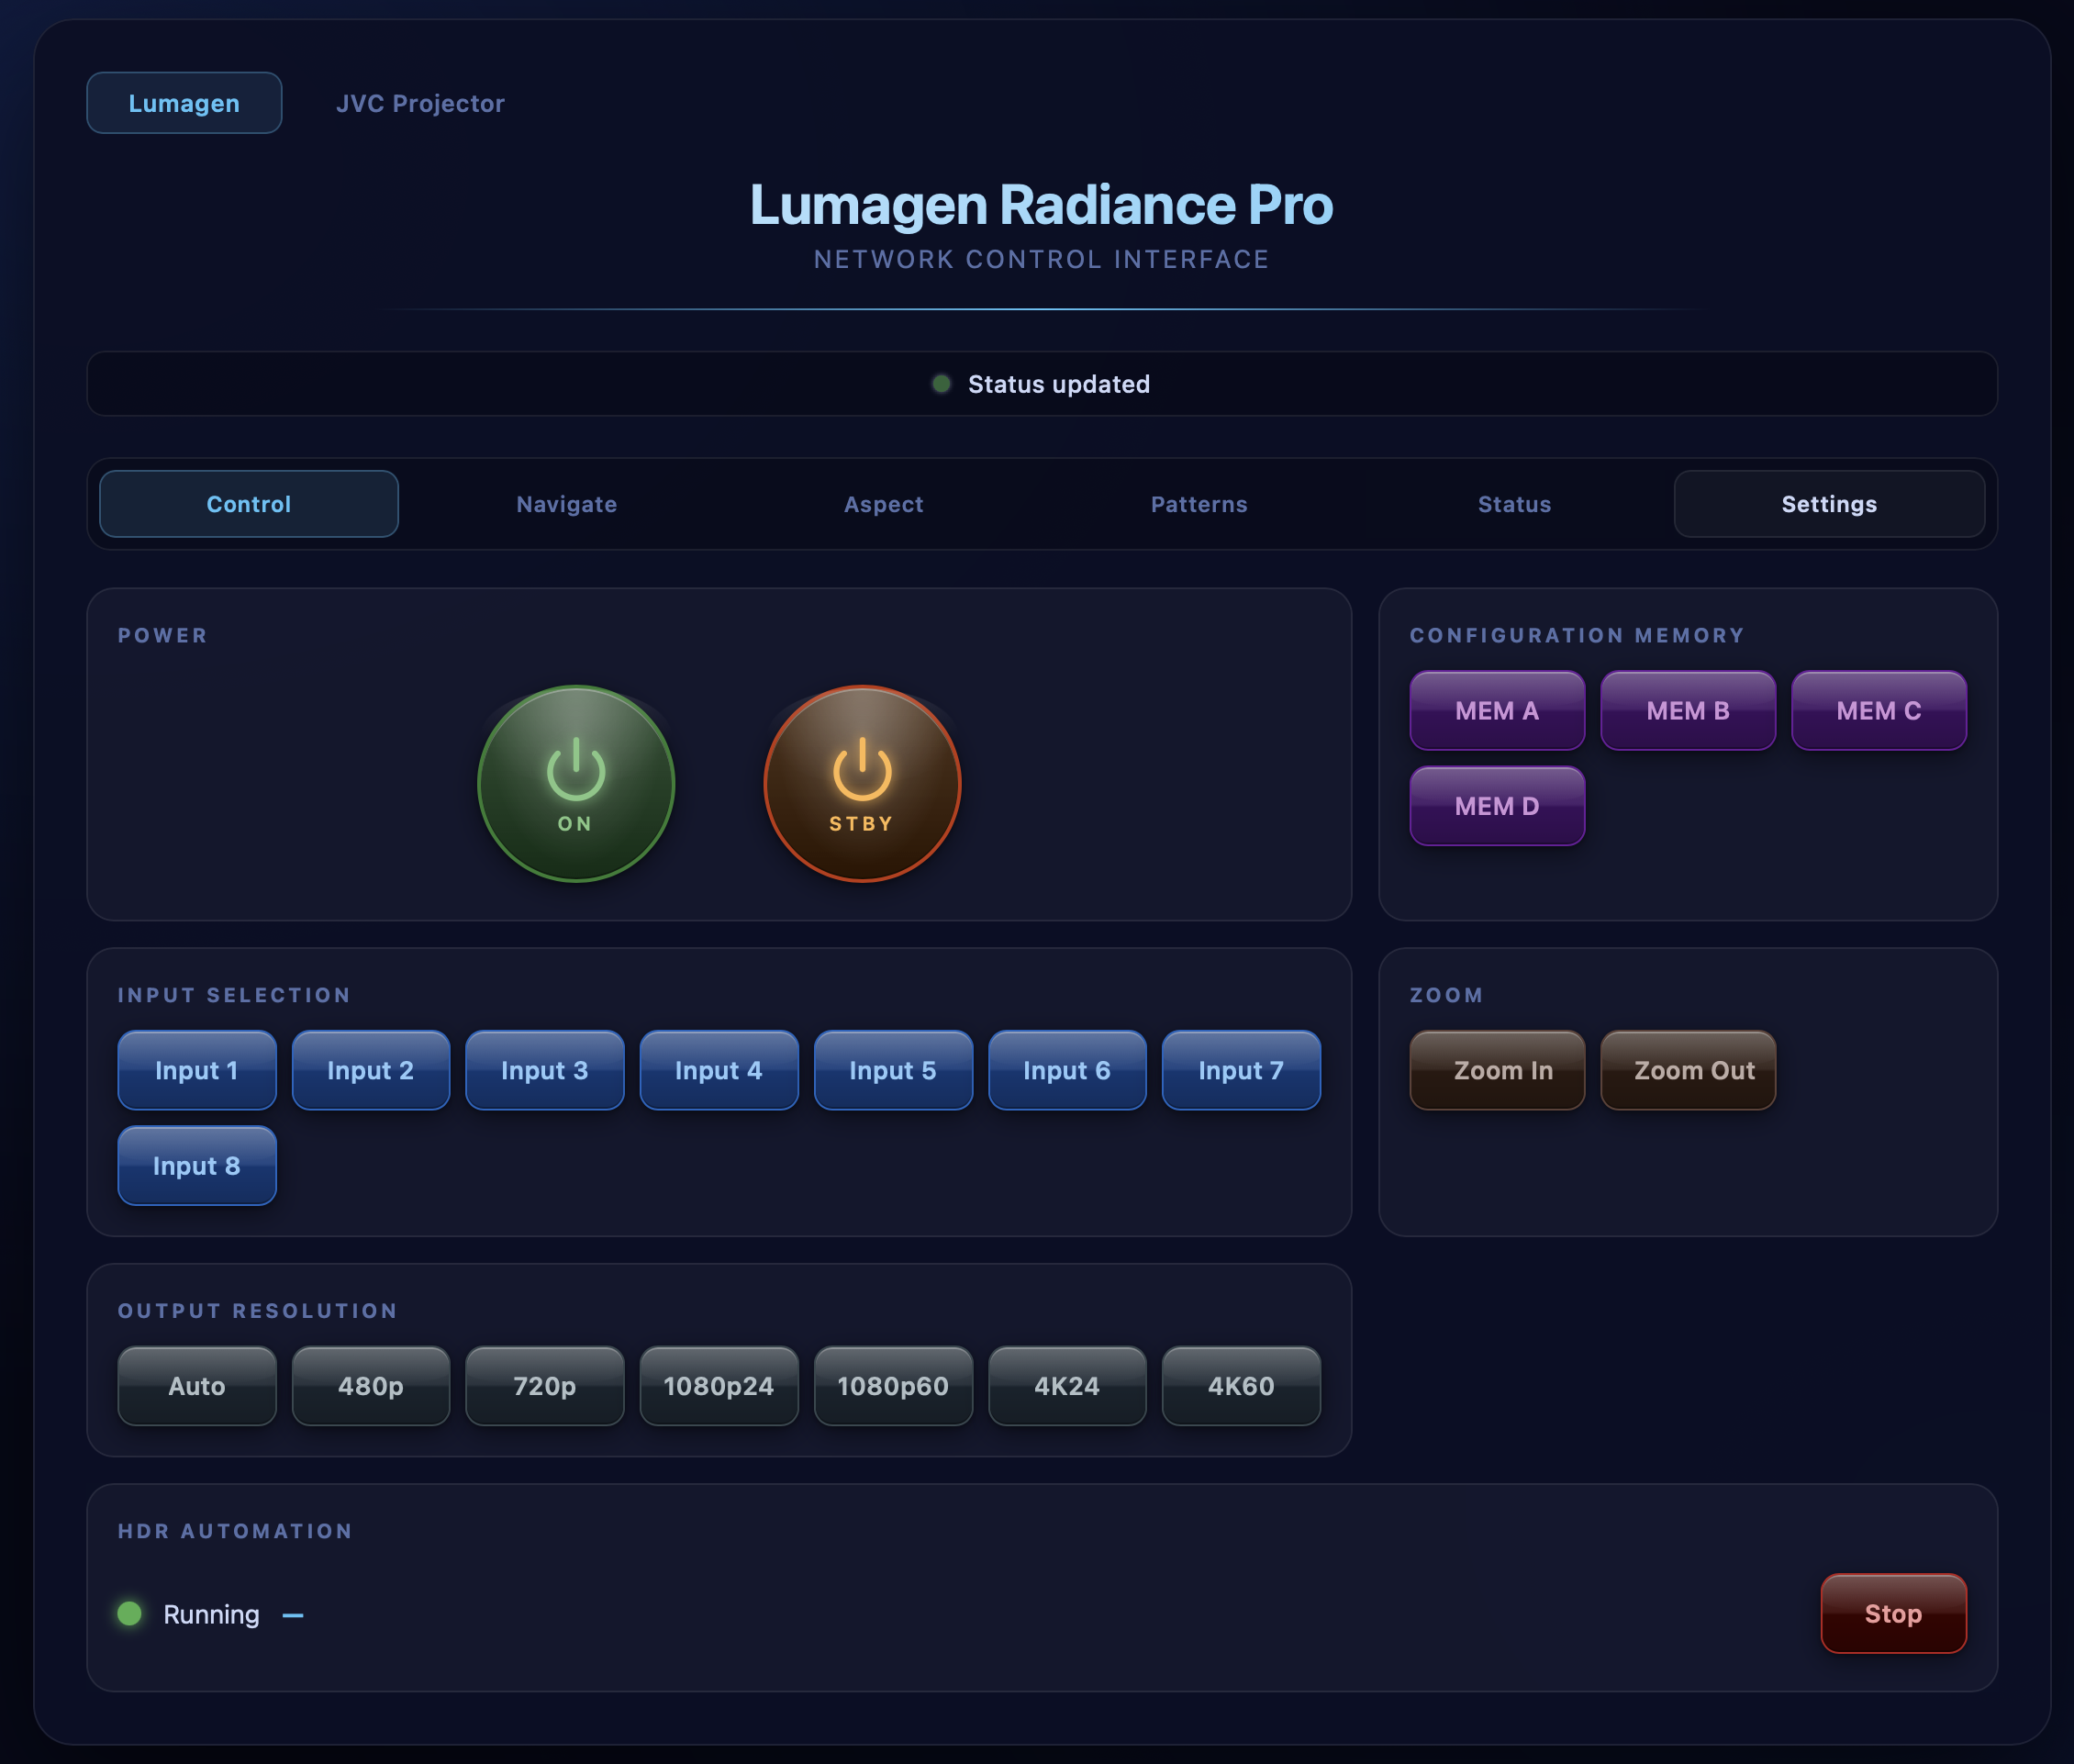
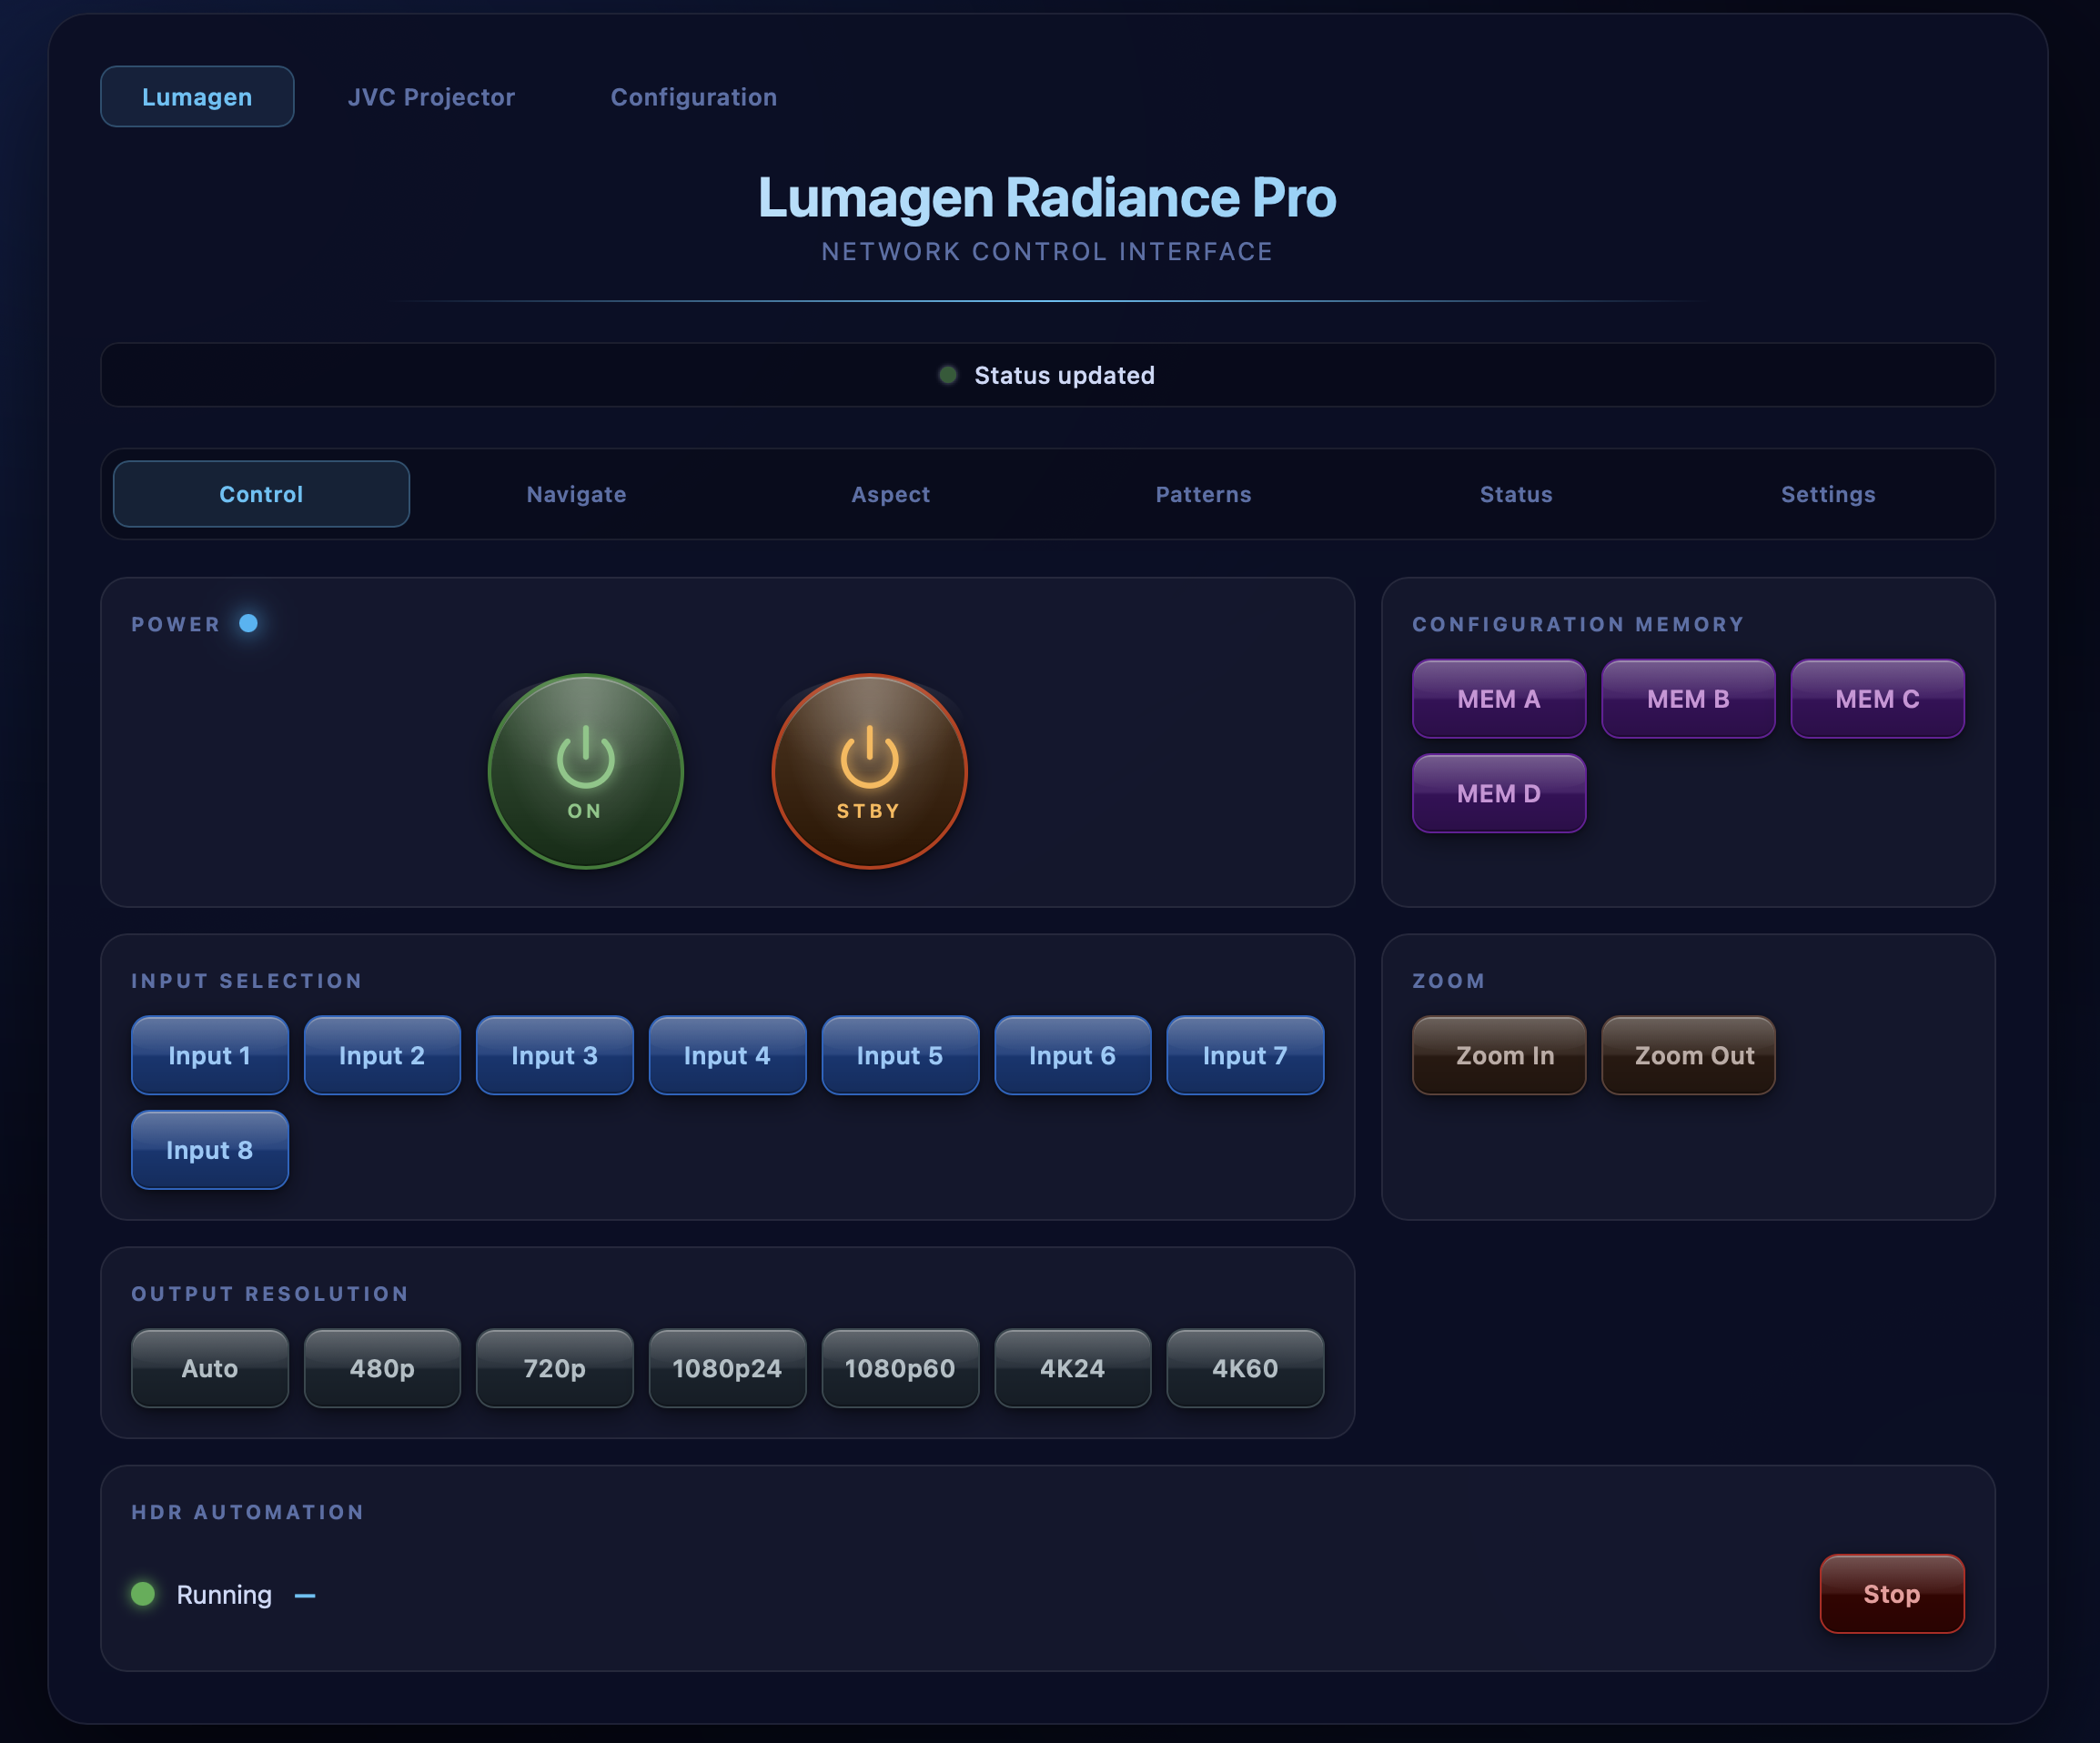
update README

diff --git a/README.md b/README.md
@@ -43,6 +43,8 @@ Python library for controlling JVC D-ILA projectors (TCP/IP) and Lumagen Radianc
 
 ![JVC NX Web UI](lumagen_ui/jvc_ui.png)
 
+![Lumagen-JVC Picture Mode automation - Configuration](lumagen_ui/config.png)
+
 **Lumagen page** (`/`): power, input selection, configuration memory, aspect ratio, zoom, output resolution, test patterns, save config, status, HDR automation start/stop.
 
 **JVC page** (`/jvc`): power, HDMI input, picture mode (Film / Cinema / Natural / HDR / THX / HLG / Frame Adapt / User 1–6), projector status.

diff --git a/docs/RASPBERRY_PI_SETUP.md b/docs/RASPBERRY_PI_SETUP.md
@@ -275,7 +275,7 @@ sudo apt update && sudo apt upgrade -y
 **Update the project**
 ```bash
 cd ~/jvclrpctl
-git pull https://github.com/shanmugara/jvclrpctl.git
+git pull origin main
 ```
 Then restart the service:
 ```bash